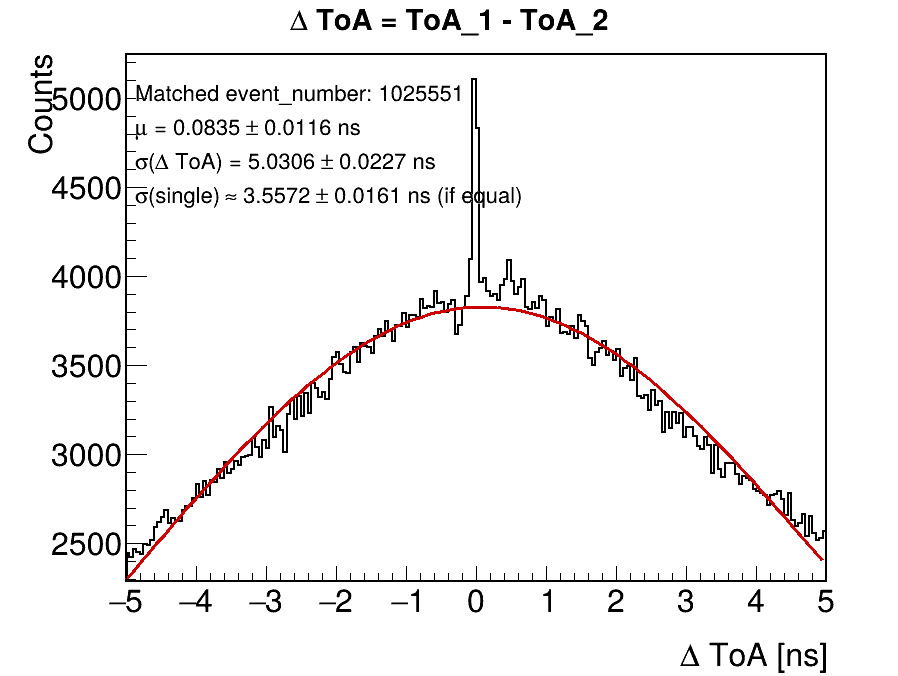
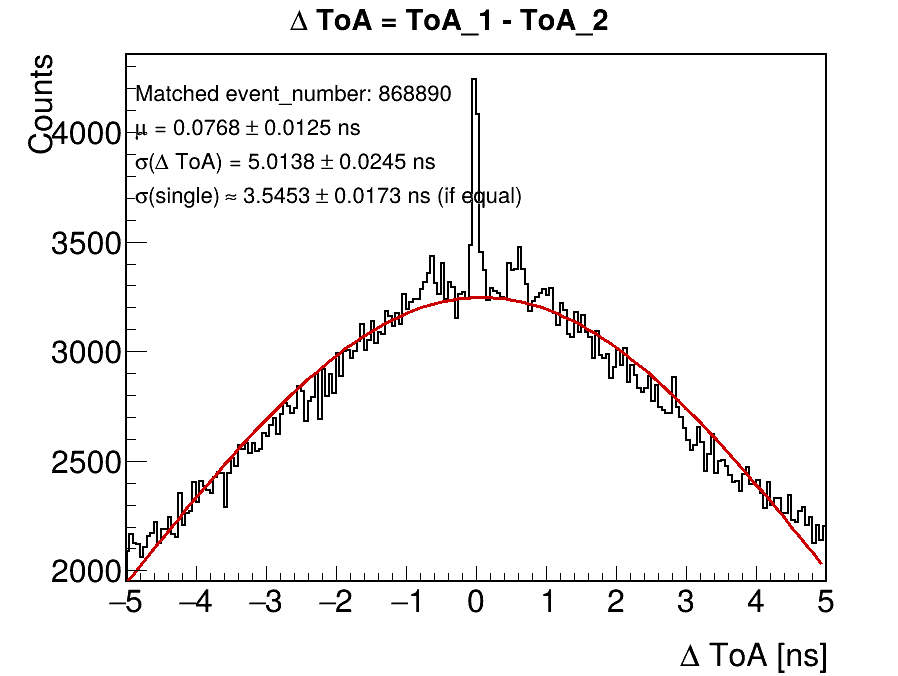
update

diff --git a/translate_data_to_root.py b/translate_data_to_root.py
@@ -44,13 +44,13 @@ def main(inputfiles):
     variables = {
         # EH
         'event_number': create_array(),
-        'version': create_array(),
-        'hits_count': create_array(),
+        'event_type': create_array(),
         'num_words': create_array(),
 
         # H
         'channel_h': create_array(),
-        'l1counter': create_array(),
+        'l1counter_hw': create_array(), 
+        'l1counter_global': create_array(), 
         'type': create_array(),
         'bcid': create_array(),
         # D
@@ -67,10 +67,10 @@ def main(inputfiles):
         'hits_t': create_array(),
         'crc': create_array(),
         # ET
-        'et_event_number': create_array(),
-        'et_event_type': create_array(),
+        'et_num_hits': create_array(),
         'et_overflow_count': create_array(),
         'et_hamming_count': create_array(),
+        'et_crc': create_array(),
         # GLobal event counter
         'event_id': create_array(),
     }
@@ -81,16 +81,27 @@ def main(inputfiles):
         hits_tree.Branch(var_name, var, f"{var_name}/I")
 
 
-    event_id = 0
+    event_id = 1
     previous_hw_event = None
     overflow_counter = 0
+    event_at_reset = 0 
     previous_l1 = None
     l1_overflow = 0
+    number_of_resets = 0
     MAX_8BIT = 256
 
-    MAX_16BIT = 65536
+    MAX_16BIT = 65535
 
-    for inputfile in tqdm(inputfiles):
+    import re
+
+    def extract_number(filename):
+        # Extrae el último número que aparezca en el nombre
+        numbers = re.findall(r'\d+', os.path.basename(filename))
+        return int(numbers[-1]) if numbers else -1
+
+    sorted_files = sorted(inputfiles, key=extract_number)
+
+    for inputfile in tqdm(sorted_files):
         with open(inputfile) as f:
             lines = f.readlines()
             
@@ -107,40 +118,57 @@ def main(inputfiles):
                 iline += 1
                 continue
 
-            l1_hw = int(lines[iline + 1].split()[2])  # posición del l1counter
+                
+            l1_hw = int(lines[iline + 1].split()[2])
 
             if previous_l1 is not None:
-                # Detectar wrap real (255 -> 0)
                 if previous_l1 > 200 and l1_hw < 50:
                     l1_overflow += 1
 
             l1_global = l1_overflow * MAX_8BIT + l1_hw
-
             previous_l1 = l1_hw
 
-            variables['l1counter'][0] = l1_global
+            variables['l1counter_hw'][0] = l1_hw
+            variables['l1counter_global'][0] = l1_global
 
             # Parse EH y H
             try:
                 parts = lines[iline].split()
                 hw_event = int(parts[1]) # 16-bit
+                event_type = int(parts[2])
+                num_words = int(parts[3])
                 if previous_hw_event is not None:
-                    if hw_event < previous_hw_event:
+                    if  hw_event <= previous_hw_event:
                         overflow_counter += 1
+                        event_at_reset = previous_hw_event + event_at_reset
+                        if hw_event == 0:
+                            event_at_reset += 1
+                        print(f"Reset detected at line {iline} in file {inputfile}, previous_hw_event: {previous_hw_event}, current_hw_event: {hw_event}, total overflows: {overflow_counter}")
             
-                global_event_number = overflow_counter * MAX_16BIT + hw_event
+                global_event_number = event_at_reset + hw_event
 
 
                 variables['event_number'][0] = global_event_number
-                variables['version'][0] = int(parts[2])
-                variables['hits_count'][0] = int(parts[3])
-                variables['num_words'][0] = int(parts[4])
+                variables['event_type'][0] = event_type
+                variables['num_words'][0] = num_words
 
                 previous_hw_event = hw_event
+                if previous_hw_event == 0:
+                    number_of_resets += 1
+                    print(f"Reset detected at line {iline}, total resets: {number_of_resets}")
+                    print(f"Global event numer at reset: {global_event_number}")
 
-                variables['channel_h'][0], variables['l1counter'][0], variables['type'][0], variables['bcid'][0] = \
+                variables['channel_h'][0], variables['l1counter_hw'][0], variables['type'][0], variables['bcid'][0] = \
                     map(int, lines[iline + 1].split()[1:])
-                
+
+                if inputfile == "/media/elenamr/B6EB-8B99/2Kintex/K2/run_569/file_242.sem":
+                    print(f"{global_event_number}")
+                    print(f"Event ID = {event_id}")
+
+
+                #if event_id != global_event_number:
+                #    print(f"Warning: event_id {event_id} does not match global_event_number {global_event_number} at line {iline} in file {inputfile}")    
+                #    input()    
             except Exception:
                 iline += 1
                 continue
@@ -172,15 +200,21 @@ def main(inputfiles):
             if j + 1 < nlines and lines[j + 1].startswith('ET'):
                 try:
                     parts_et = lines[j + 1].split()
-                    variables['et_event_number'][0] = int(parts_et[1])
-                    variables['et_event_type'][0] = int(parts_et[2])
-                    variables['et_overflow_count'][0] = int(parts_et[3])
-                    variables['et_hamming_count'][0] = int(parts_et[4])
+                    # Ejemplo esperado: "ET num_hits overflow_count hamming_count crc"
+                    variables['et_num_hits'][0] = int(parts_et[1])
+                    variables['et_overflow_count'][0] = int(parts_et[2])
+                    variables['et_hamming_count'][0] = int(parts_et[3])
+                    variables['et_crc'][0] = int(parts_et[4])
                 except Exception:
-                    variables['et_event_number'][0] = -1
-                    variables['et_event_type'][0] = -1
+                    variables['et_num_hits'][0] = -1
                     variables['et_overflow_count'][0] = -1
                     variables['et_hamming_count'][0] = -1
+                    variables['et_crc'][0] = -1
+            else:
+                variables['et_num_hits'][0] = -1
+                variables['et_overflow_count'][0] = -1
+                variables['et_hamming_count'][0] = -1
+                variables['et_crc'][0] = -1
 
             # Fill once per hit
             for d in d_lines:
@@ -199,6 +233,9 @@ def main(inputfiles):
                 iline = j + 2
             else:
                 iline = j + 1
+
+
+            
             
     hits_tree.Write()
     hits.Close()

diff --git a/Resolution study/resolution_analysis.py b/Resolution study/resolution_analysis.py
@@ -68,8 +68,7 @@ def build_hit_map(root_file, key="l1counter", choose="max_tot"):
 @click.option("--nbins", default=200, type=int)
 @click.option("--range_ns", default=5.0, type=float,
               help="Histogram range will be [-range_ns, +range_ns] in ns.")
-@click.option("--pause", is_flag=True, help="Wait for Enter to close canvas.")
-def main(root1, root2, key, choose, outdir, nbins, range_ns, pause):
+def main(root1, root2, key, choose, outdir, nbins, range_ns):
     os.makedirs(outdir, exist_ok=True)
 
     print(f"[INFO] Reading 1: {root1}")
@@ -144,8 +143,7 @@ def main(root1, root2, key, choose, outdir, nbins, range_ns, pause):
     print(f"[RESULT] sigma(ΔToA) = {sigma:.6f} ± {sigma_err:.6f} ns")
     print(f"[RESULT] sigma_single ≈ {sigma_single:.6f} ± {sigma_single_err:.6f} ns (assumes equal sensors)")
 
-    if pause:
-        input("Press Enter to continue...")
+    input("Press Enter to continue...")
 
 if __name__ == "__main__":
     main()
